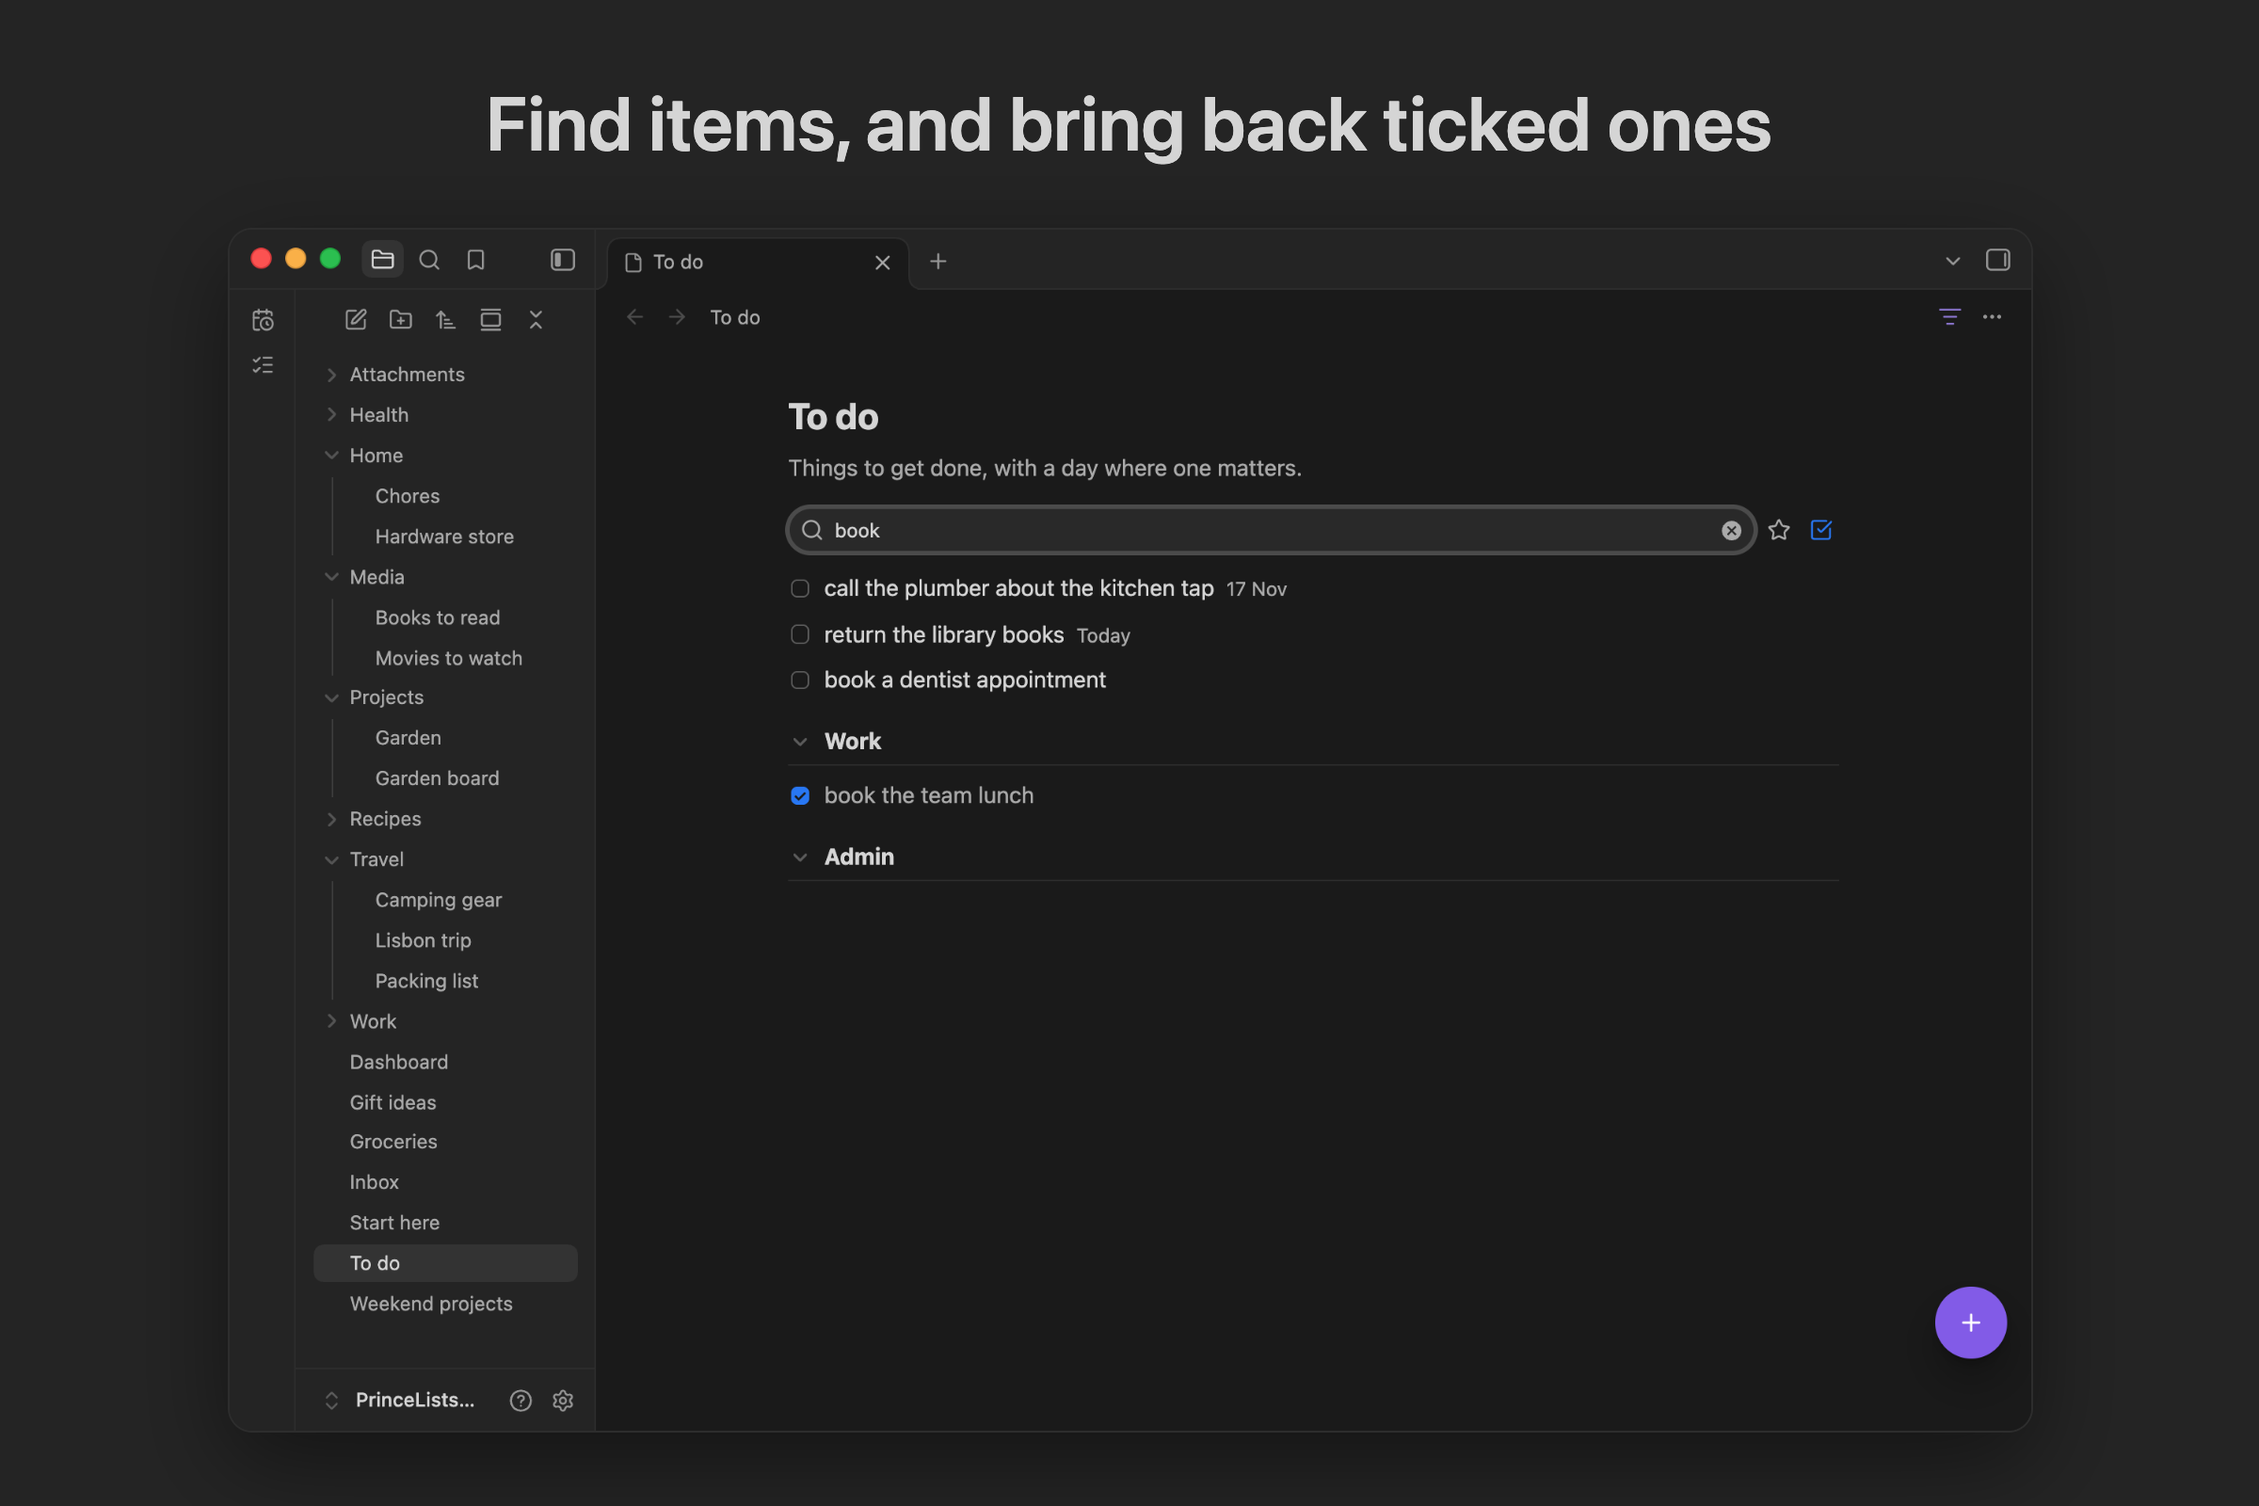
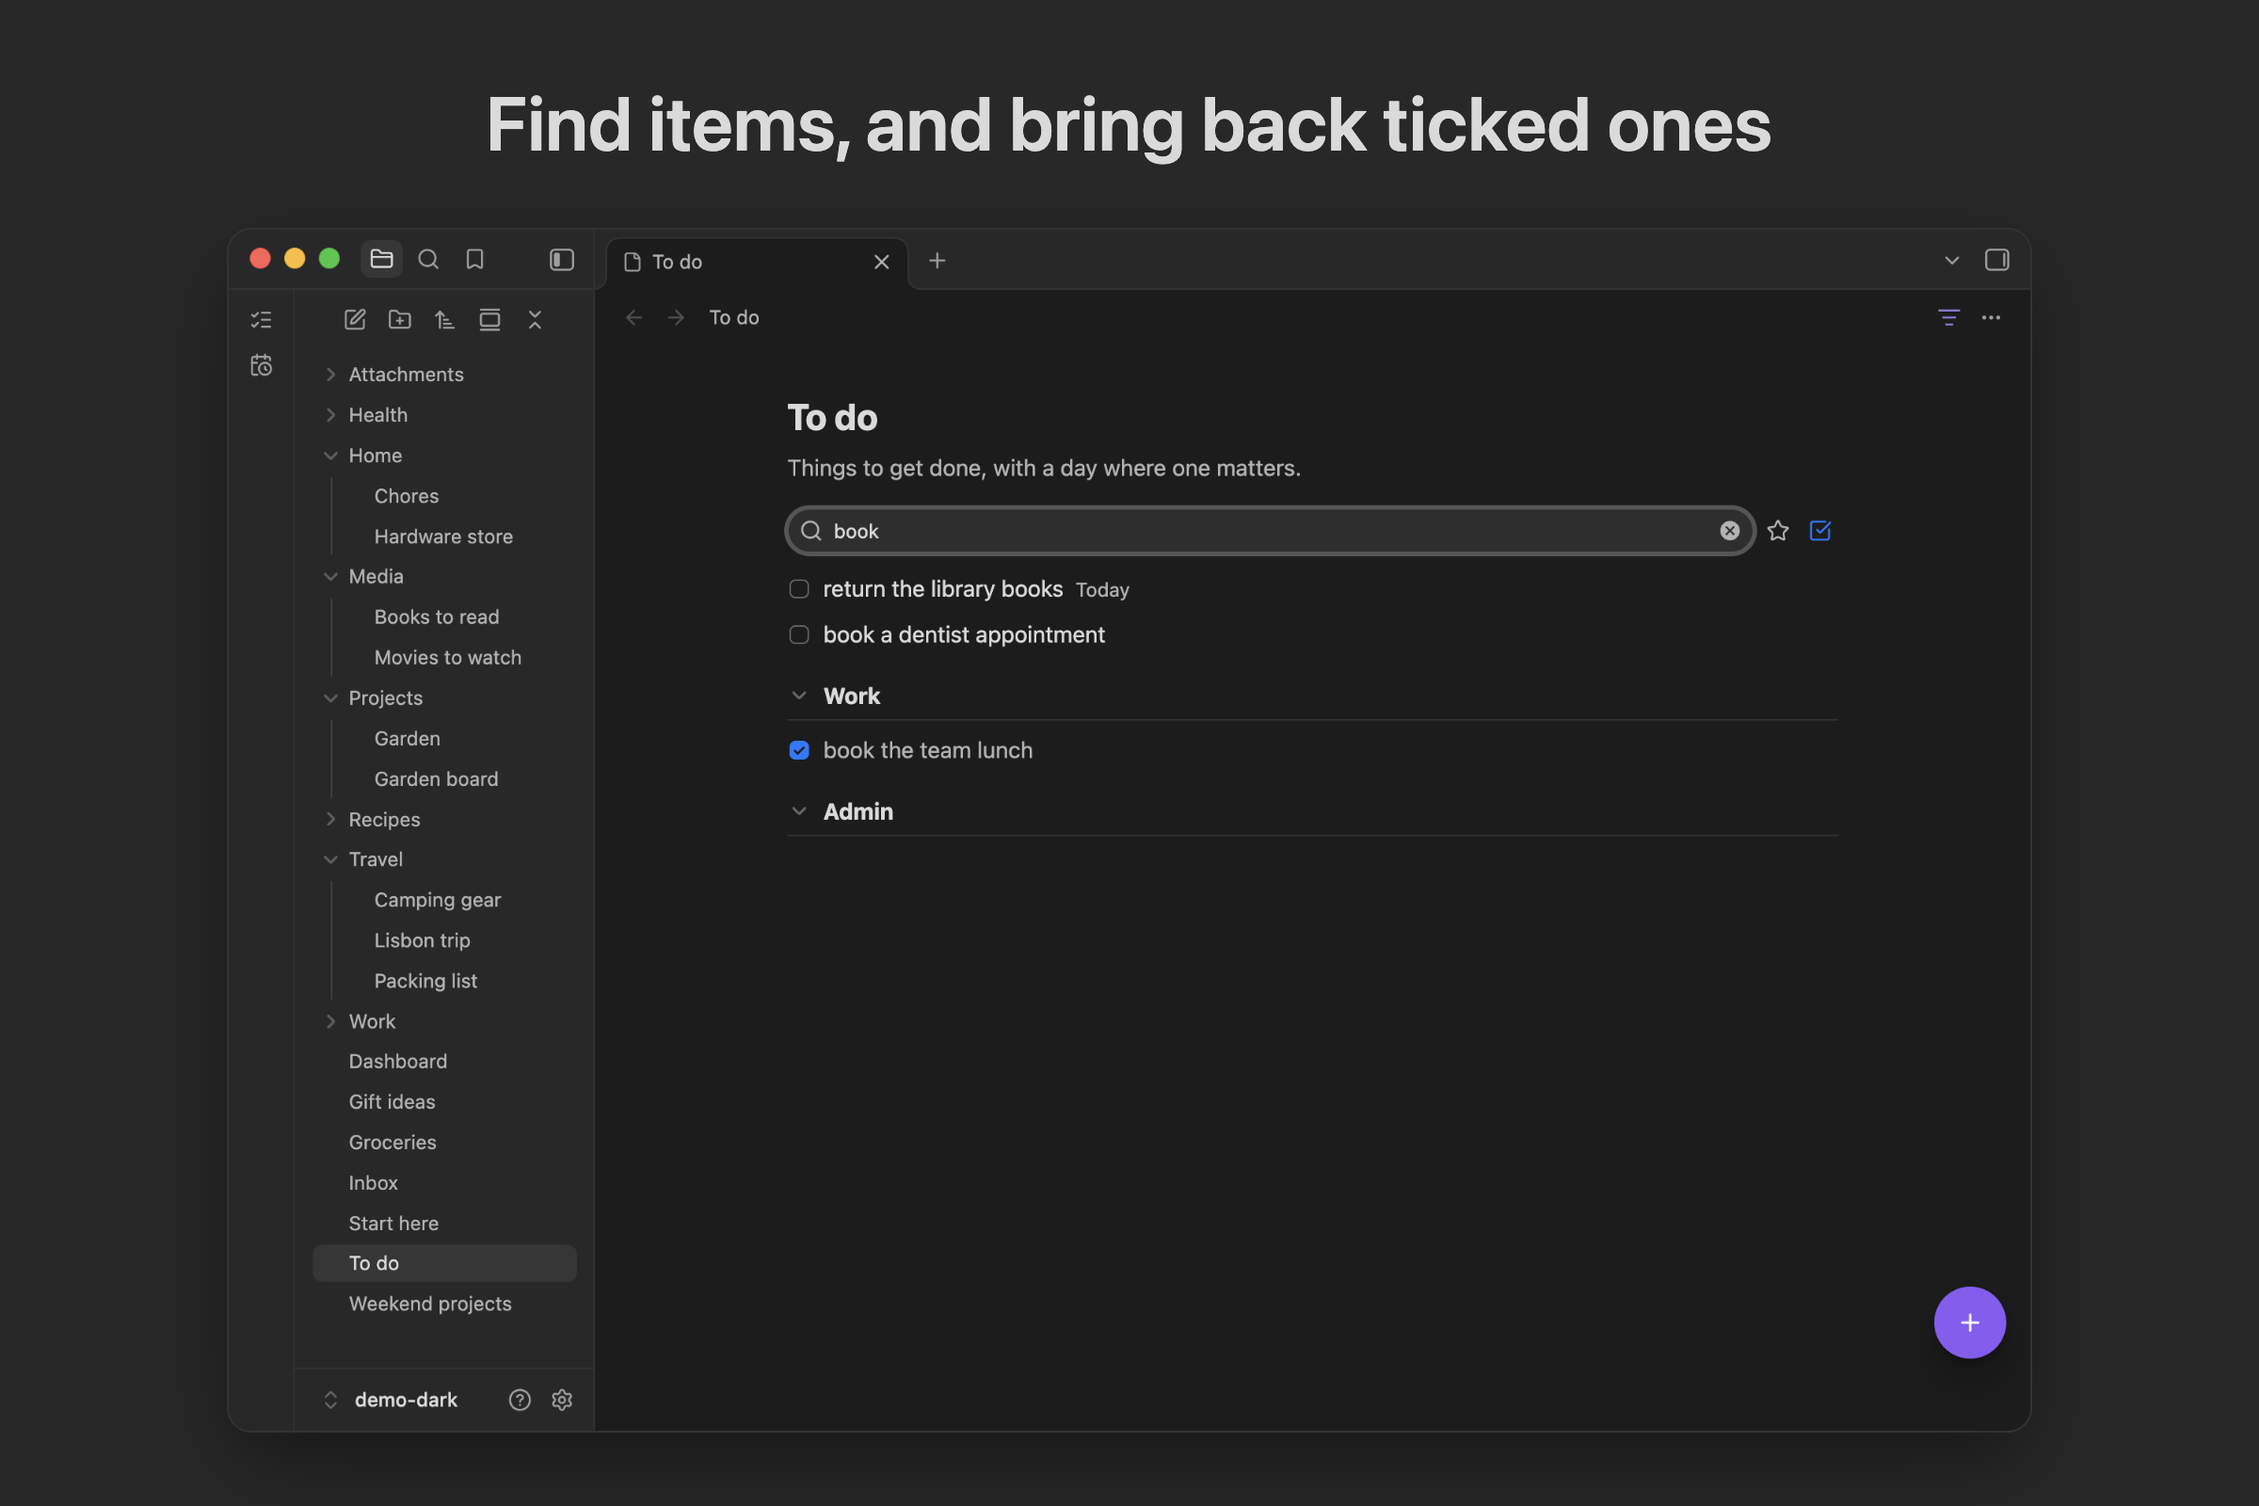
Find items by their words, not by letters in order (#513)
## What does this PR do?

- Find, in a list and in the Schedule, now matches by words with
Obsidian's `prepareSimpleSearch` instead of `prepareFuzzySearch`. Each
word typed must appear as written, in any order, ignoring case: "oat mi"
and "milk oat" find "oat milk", and "mlk" finds nothing.
- The words may be spread over an item: its title and notes, and in the
Schedule its list's name, are searched as one text. So "basil pesto"
finds "fresh basil" whose notes mention pesto.
- The When still matches as exact text, apart from the words, as before.
- `Find.fuzzyMatches` is renamed `matches`, since it is no longer fuzzy.
- Docs: step two's design records the decision and its reason, and the
main design's minimum-version note names `prepareSimpleSearch`. The
README's filter GIF and the listing's `desktop-4-filter` shot are
retaken, and the GIF's alt text now says "book" finds the three items
that mention it, not four.

## Why is this change needed?

Letters in order with gaps found too much: two or three letters matched
almost any item with a long note. The maintainer chose word matching
over keeping fuzzy matching for titles only or adding a setting.

## How was this tested?

- `npm test`: 1830 passed. New cases: words spread over title and notes
(and list name), a word running from the title into the notes, and a day
typed with words.
- `npm run build` and `npm run lint`: clean.
- `node scripts/check-docs.mjs`: passed.
[…]

diff --git a/tests/core/display.test.ts b/tests/core/display.test.ts
@@ -198,6 +198,14 @@ describe('visibleSections, filtered', () => {
 		expect(sectionsOf(text, now, false, '**bold**')[0]?.rows).toEqual([row(3, 'Bread')]);
 	});
 
+	test('keeps an item whose words are spread over its title and notes', () => {
+		expect(sectionsOf(text, now, false, 'bread bold')[0]?.rows).toEqual([row(3, 'Bread')]);
+	});
+
+	test('never matches a word running from the title into the notes', () => {
+		expect(sectionsOf(text, now, false, 'bread**bold')[0]?.rows).toEqual([]);
+	});
+
 	test('shows every heading, with or without an item that matches', () => {
 		expect(sectionsOf(text, now, false, 'rake').map((section) => section.heading?.text ?? null)).toEqual([null, 'Garden', 'Old']);
 	});
@@ -274,8 +282,8 @@ describe('visibleSections, matching the date', () => {
 		expect(sectionsOf(text, now, false, '2026-11')[0]?.rows.map((shown) => shown.kind === 'item' && shown.title)).toEqual(['Renew']);
 	});
 
-	test('matches the When as exact text, never fuzzily', () => {
-		const anyDay = { text: '2026-11', fuzzyMatches: (shown: string) => /^\d{4}-\d{2}-\d{2}$/.test(shown) };
+	test('matches the When as exact text, never through the word search', () => {
+		const anyDay = { text: '2026-11', matches: (shown: string) => /^\d{4}-\d{2}-\d{2}$/.test(shown) };
 		const { lines, model } = list(text);
 		const sections = visibleSections(lines, model, now, { showArchived: false, starredOnly: false, lit: NO_LIT_TAGS, archiveDelayMs: DAY, find: anyDay, keepLine: null, collapsed: new Set() }, NO_INHERITED_TAGS);
 		expect(sections[0]?.rows.map((shown) => shown.kind === 'item' && shown.title)).toEqual(['Renew']);

diff --git a/src/core/display.ts b/src/core/display.ts
@@ -55,10 +55,10 @@ export interface SectionRows {
 	collapsed: boolean;
 }
 
-/** What Cmd+F's field holds: the text as typed, and the view's fuzzy search for it, which core only calls. */
+/** What Cmd+F's field holds: the text as typed, and the view's word search for it, which core only calls. */
 export interface Find {
 	text: string;
-	fuzzyMatches: (text: string) => boolean;
+	matches: (text: string) => boolean;
 }
 
 export interface RowFilter {
@@ -155,10 +155,10 @@ export function isItemVisible(lines: readonly Line[], model: ListModel, now: Dat
 
 function itemMatches(lines: readonly Line[], item: ItemBlock, row: ItemRow, find: Find | null): boolean {
 	if (find === null) return true;
-	return find.fuzzyMatches(row.title) || find.fuzzyMatches(getItemNotes(lines, item)) || whenMatches(row.when, find);
+	return find.matches([row.title, getItemNotes(lines, item)].join('\n')) || whenMatches(row.when, find);
 }
 
-/** Whether the typed text is part of `when`, the day as the file writes it: a fuzzy match would let "2026-11" find 2026-12-01 too. */
+/** Whether the typed text is part of `when`, the day as the file writes it, letter for letter. */
 export function whenMatches(when: string | null, find: Find): boolean {
 	return when !== null && when.includes(find.text);
 }

diff --git a/src/view/filter.ts b/src/view/filter.ts
@@ -1,4 +1,4 @@
-import { prepareFuzzySearch, SearchComponent, setIcon, setTooltip, type App, type Component, type Debouncer, type Menu, type WorkspaceLeaf } from 'obsidian';
+import { prepareSimpleSearch, SearchComponent, setIcon, setTooltip, type App, type Component, type Debouncer, type Menu, type WorkspaceLeaf } from 'obsidian';
 import type { Find } from '../core/display';
 import type { TagStripMode } from '../core/tag-strip-mode';
 import { NO_LIT_TAGS, type LitTags } from '../core/tags';
@@ -59,14 +59,14 @@ export interface FilterHost {
 }
 
 /**
- * What `query` finds, with Obsidian's fuzzy search for words: its letters in order, with gaps,
+ * What `query` finds, with Obsidian's simple search: each of its words as written, in any order,
  * ignoring case and accents. Spaces around it are ignored, and null for no text, which filters nothing.
  */
 export function findOf(query: string): Find | null {
 	const text = query.trim();
 	if (text === '') return null;
-	const search = prepareFuzzySearch(text);
-	return { text, fuzzyMatches: (shown) => search(shown) !== null };
+	const search = prepareSimpleSearch(text);
+	return { text, matches: (shown) => search(shown) !== null };
 }
 
 /** The icon that opens and closes the field. */

diff --git a/tests/core/edit-helpers.ts b/tests/core/edit-helpers.ts
@@ -7,8 +7,9 @@ import { changedLines, saveListNoteLines, spanLines } from '../../src/core/notes
 import { openVisit } from '../../src/core/notes-visit';
 import { isBlank, maskBlocks, parseList, type ItemBlock, type ListModel, type Section } from '../../src/core/parse';
 
-// A stand-in for the view's fuzzy search, which needs Obsidian: core only calls the one it's given.
-export const containing = (query: string) => (query === '' ? null : { text: query, fuzzyMatches: (text: string) => text.toLowerCase().includes(query.toLowerCase()) });
+// A stand-in for the view's word search, which needs Obsidian: core only calls the one it's given.
+export const containing = (query: string) =>
+	query === '' ? null : { text: query, matches: (text: string) => query.toLowerCase().split(' ').every((word) => text.toLowerCase().includes(word)) };
 
 export const FIXTURES = readdirSync(new URL('../fixtures/', import.meta.url));
 export const readFixture = (name: string) => readFileSync(new URL(`../fixtures/${name}`, import.meta.url), 'utf8');

diff --git a/tests/core/schedule.test.ts b/tests/core/schedule.test.ts
@@ -230,14 +230,18 @@ describe('matchesSchedule', () => {
 		['**milk**', true],
 		['oat', true],
 		['grocer', true],
+		['milk oat grocer', true],
+		['milk bread', false],
+		['**the', false],
+		['milk 2026-10-28', false],
 		['bread', false],
 		['2026-10-28', true],
 	])('%j matches: %s', (query, matches) => {
 		expect(matchesSchedule(item, containing(query) as Find)).toBe(matches);
 	});
 
-	test('matches the day as exact text, never fuzzily', () => {
-		const anyDay = (text: string) => ({ text, fuzzyMatches: (shown: string) => /^\d{4}-\d{2}-\d{2}$/.test(shown) });
+	test('matches the day as exact text, never through the word search', () => {
+		const anyDay = (text: string) => ({ text, matches: (shown: string) => /^\d{4}-\d{2}-\d{2}$/.test(shown) });
 		expect(matchesSchedule(item, anyDay('2026-10'))).toBe(true);
 		expect(matchesSchedule(item, anyDay('2026-11'))).toBe(false);
 	});

diff --git a/src/core/schedule.ts b/src/core/schedule.ts
@@ -60,9 +60,9 @@ export function unarchived(items: readonly ScheduledItem[], now: Date, archiveDe
 		.map((item) => (item.done ? { ...item, repeats: backDay(item.line, now) !== null } : item));
 }
 
-/** Whether `find` finds the item: its title, its notes or its list's name fuzzily, or its day as exact text. */
+/** Whether `find` finds the item: every word somewhere in its title, notes and list's name, or its day as exact text. */
 export function matchesSchedule(item: ScheduledItem, find: Find): boolean {
-	return [item.title, item.notes, item.listName].some((text) => find.fuzzyMatches(text)) || whenMatches(item.day, find);
+	return find.matches([item.title, item.notes, item.listName].join('\n')) || whenMatches(item.day, find);
 }
 
 // Today takes everything overdue too.

diff --git a/docs/superpowers/specs/2026-10-27-prince-lists-step-2-design.md b/docs/superpowers/specs/2026-10-27-prince-lists-step-2-design.md
@@ -147,16 +147,17 @@ this met on 2026-10-30 **(owner)**.
 - **The field is Obsidian's own search field (owner, 2026-11-07),** whose clear button shows once
   it holds text and empties it as deleting the text does, keeping focus in it. Like Obsidian's own,
   it shows a magnifying glass and reads "Search..." (owner, 2026-11-07).
-- **As you type, items the text doesn't find hide.** The match is fuzzy, with Obsidian's
-  `prepareFuzzySearch` (owner, 2026-11-06): the text's letters in order, with gaps between them,
-  so "mlk" finds "oat milk". A wrong or swapped letter finds nothing, and neither does another
-  word order. It ignores case and folds accents as Obsidian does, so "e" finds "é" (owner,
-  2026-11-06), which needs Obsidian 1.15.0 (the design's "Minimum Obsidian version"). Two letters
-  can match a long note, which the owner accepted.
+- **As you type, items the text doesn't find hide.** The match is by words, with Obsidian's
+  `prepareSimpleSearch` (owner, 2026-11-27): each word typed appears as written, in any order, so
+  "oat mi" and "milk oat" find "Oat milk", and "mlk" finds nothing. Letters in order with gaps, as
+  `prepareFuzzySearch` matches, found too much: two or three letters matched almost any long note
+  (owner, 2026-11-27). It ignores case and folds accents as Obsidian does, so "e" finds "é"
+  (owner, 2026-11-06), which needs Obsidian 1.15.0 (the design's "Minimum Obsidian version").
   - **It searches the title, the notes and the When as the file writes it (owner, 2026-11-06),**
-    each on its own, Markdown included. The When matches letter for letter, as part of the day,
-    not fuzzily, so `2026-11` finds November's items, where fuzzily it would find `2026-12-01`
-    too (owner, 2026-11-06). The words a row shows for its day ("Tomorrow", "Fri") don't match,
+    Markdown included. The words may be spread over the title and the notes, so "milk recipe"
+    finds "Oat milk" whose notes say "recipe" (owner, 2026-11-27). The When matches letter for
+    letter, as part of the day, apart from the words, so `2026-11` finds November's items and not
+    `2026-12-01` (owner, 2026-11-06). The words a row shows for its day ("Tomorrow", "Fri") don't match,
     since they change each day and with Obsidian's language.
   - **Spaces around the text are ignored,** and spaces alone filter nothing **(call)**.
   - **The view builds the matcher and passes it to core,** which has no Obsidian imports **(call)**.
@@ -194,7 +195,8 @@ this met on 2026-10-30 **(owner)**.
   **(owner, 2026-11-06)**; its row has no archived toggle, since the Schedule never shows archived
   items. It works as a list's field, and:
   - **The list's name is searched too (owner, 2026-11-06),** besides the title, the notes and
-    the When, so typing a list's name shows its dated items.
+    the When, so typing a list's name shows its dated items. The words may be spread over the
+    title, the notes and the list's name (owner, 2026-11-27).
   - **A group shows while one of its items shows, collapsed ones too (owner, 2026-11-06),** and a
     collapsed group is collapsed again when the filter ends, as a list's sections are.
 - **With no match, "No items match" shows (owner, 2026-11-07),** centered across the pane, below

diff --git a/README.md b/README.md
@@ -26,7 +26,7 @@ From the ribbon, a folder, or a note you already have.
 
 Filter a list by text, and bring back ticked items.
 
-![In a todo list, an item is ticked and grays out, then the filter icon in the pane's header opens a field, its toggle brings back three items ticked days ago with blue checkboxes, and typing book leaves four items, three that mention it and one whose note has its letters in order, until the filter icon closes the field again](https://raw.githubusercontent.com/princelundgren/PrinceListsObsidianPlugin/main/docs/images/filter.gif)
+![In a todo list, an item is ticked and grays out, then the filter icon in the pane's header opens a field, its toggle brings back three items ticked days ago with blue checkboxes, and typing book leaves the three items that mention it, until the filter icon closes the field again](https://raw.githubusercontent.com/princelundgren/PrinceListsObsidianPlugin/main/docs/images/filter.gif)
 
 ### Tags
 

diff --git a/docs/superpowers/specs/2026-10-20-prince-lists-design.md b/docs/superpowers/specs/2026-10-20-prince-lists-design.md
@@ -1198,7 +1198,7 @@ From here on the document is for the builder.
   takes from Obsidian at runtime. Every device must run at least that version, mobile included.
   Step one needed 1.5.7, for `getFrontMatterInfo`; the notes editor raised it to 1.13.4
   **(owner, 2026-10-29)**, as its design's risk 1 says. The filter raised it to 1.15.0
-  **(owner, 2026-11-27)**: `prepareFuzzySearch` ignores accents only from 1.15.0 on (Obsidian's
+  **(owner, 2026-11-27)**: `prepareSimpleSearch` ignores accents only from 1.15.0 on (Obsidian's
   changelog), and step two's filter promises that "e" finds "é". `manifest.json` holds the
   current value.
 - **Installing:** copy `main.js`, `manifest.json` and `styles.css` into
